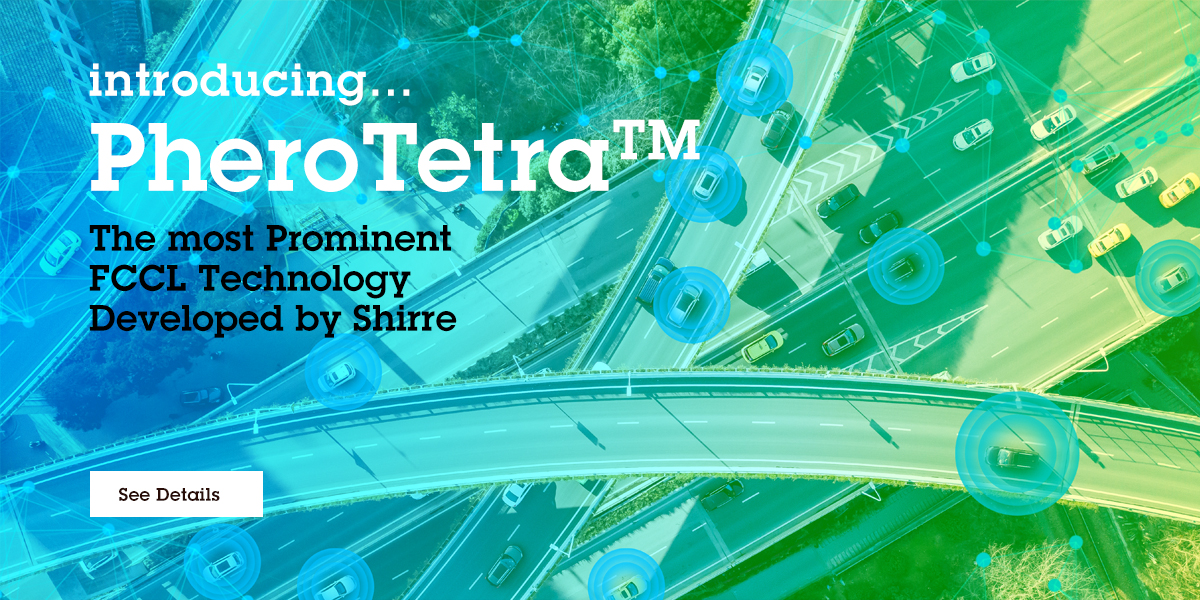
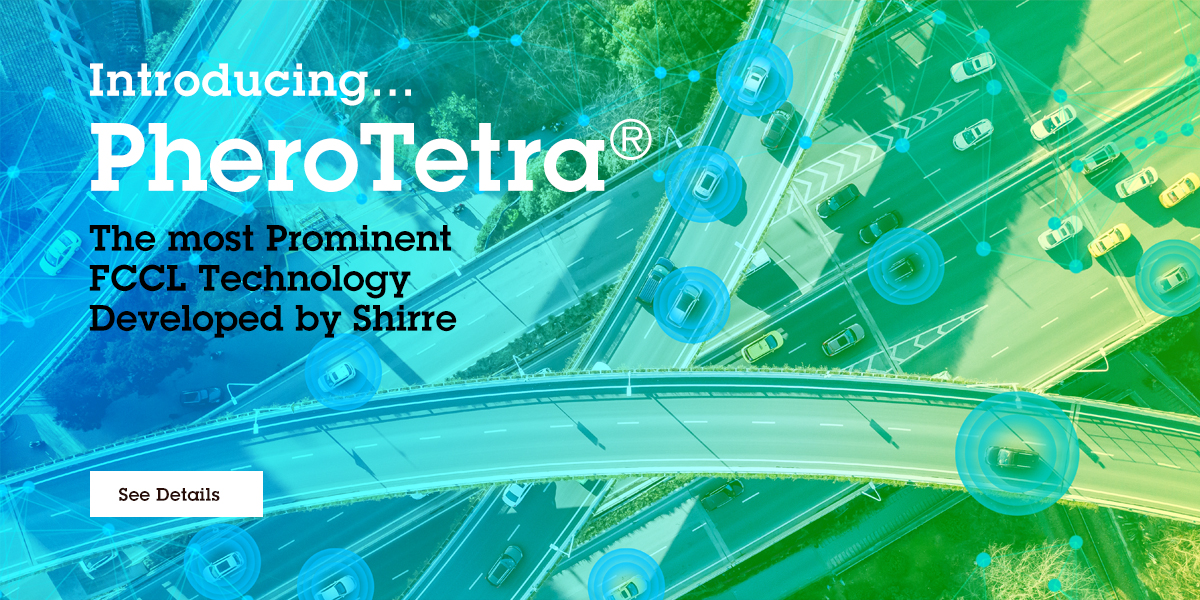
20191206

Changed region(s): [[0.2775, 0.18, 0.5858, 0.33], [0.0617, 0.09, 0.3392, 0.18]]

diff --git a/_includes/sections/products.html b/_includes/sections/products.html
@@ -5,7 +5,7 @@
         </div>
     </div>  
     <ul class="nav nav-tabs">
-      <li><a data-toggle="tab" href="#product5">PheroTetra<sup>TM</sup></a></li>
+      <li><a data-toggle="tab" href="#product5">PheroTetra<sup>®</sup></a></li>
       <li><a data-toggle="tab" href="#product2">L-TYPE</a></li>
       <li><a data-toggle="tab" href="#product3">H-TYPE</a></li>
       <li><a data-toggle="tab" href="#product4">U-TYPE</a></li>

diff --git a/_products/005-pherotetra.md b/_products/005-pherotetra.md
@@ -1,7 +1,7 @@
 ---
-title:  "PheroTetra<sup>TM</sup>"
+title:  "PheroTetra<sup>®</sup>"
 picture: 
 ---
 
-PheroTetra<sup>TM</sup>–with exceptional Dielectric Performance and ultra-low loss up to mmWave frequencies–is a fluorocarbon-based dielectric material technology developed by Shirre Lab Corp. The multi-layer structure is designed and manufactured to ensure the best signal integrity for RF antenna applications.
+PheroTetra<sup>®</sup>–with exceptional Dielectric Performance and ultra-low loss up to mmWave frequencies–is a fluorocarbon-based dielectric material technology developed by Shirre Lab Corp. The multi-layer structure is designed and manufactured to ensure the best signal integrity for RF antenna applications.
 

diff --git a/_products/001-product.md b/_products/001-product.md
@@ -7,6 +7,6 @@ Shirre Lab Corp. offers proven solutions for high-speed digital and high-frequen
 
 Our materials improve the efficiency of high-frequency applications by minimizing internal signal losses. Constant, customized dielectric properties and ULTRA LOW LOSS makes Shirre product an excellent construction material for antennas, radars and transceivers.
 
-PheroTetra<sup>TM</sup> is currently available in three types – The L-Type, H-Type and U-Type.
+PheroTetra<sup>®</sup> is currently available in three types – The L-Type, H-Type and U-Type.
 
 
